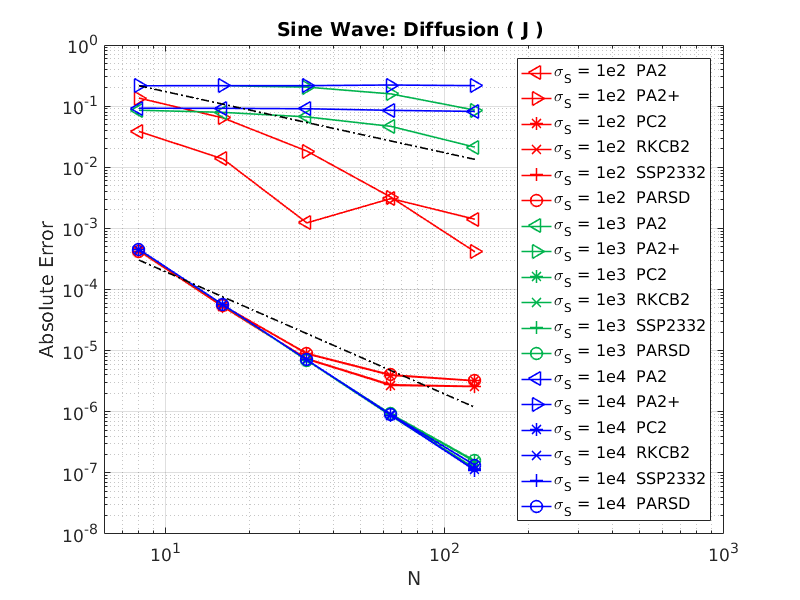
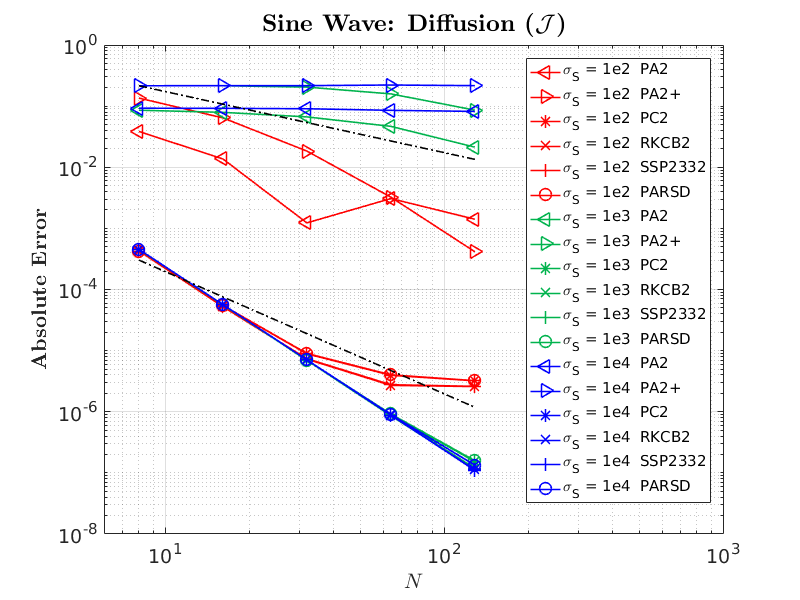
Changed font size and format.

diff --git a/Documents/M1/realizableFermionicM1/figures/ConvexSetGenerator.m b/Documents/M1/realizableFermionicM1/figures/ConvexSetGenerator.m
@@ -24,9 +24,9 @@ hold off
 axis([-0.5 0.5 0.0 1.0]);
 set(gca,'FontSize',10)
 set(gca,'xtick',-0.5:0.1:0.5);
-xlabel('{\bf Angular Moment} $\mathcal{H}$','Interpreter','LaTeX','Fontsize',12);
-ylabel('{\bf Angular Moment} $\mathcal{J}$','Interpreter','LaTeX','Fontsize',12);
-title('{\bf Realizable set} $\mathcal{R}$','Interpreter','LaTeX','Fontsize',14)
+xlabel('{\bf Angular Moment} $\mathcal{H}$','Interpreter','LaTeX','Fontsize',11);
+ylabel('{\bf Angular Moment} $\mathcal{J}$','Interpreter','LaTeX','Fontsize',11);
+title('{\bf Realizable set} $\mathcal{R}$','Interpreter','LaTeX','Fontsize',13)
 box on
 set(gca, 'Layer', 'top')
 saveas(fig,'RealizableSetFermionic.png');
